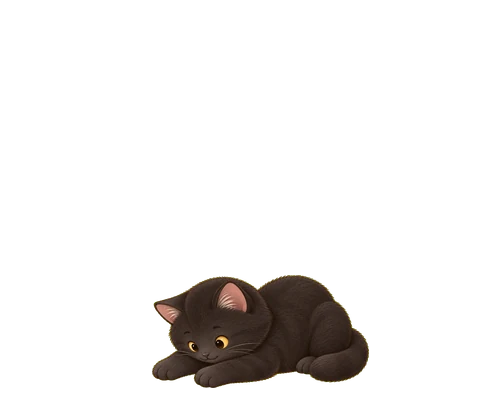
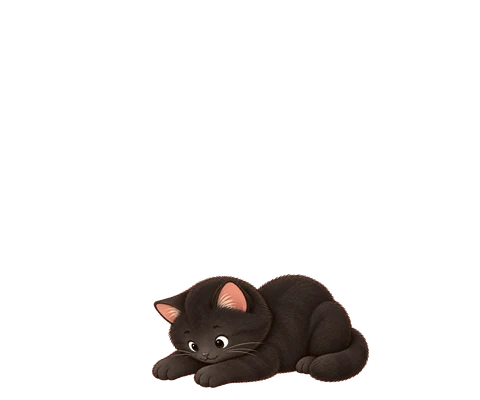
Add peer pose for all cats, use it for sakura-toro, update Pilpel's lie art
New "peer" pose (cat sitting beside and leaning toward something, head
tilted down) added to the pipeline regex, READY_POSES and POSE_LABEL --
all seven cats have art for it. sakura-toro switches from sit to peer and
its cat anchor is tuned (x: 73.8) so the cat leans in close against the
lantern's corner, matching the reference composition. Also brings in
updated art for Pilpel's lie pose.

Claude-Session: https://claude.ai/code/session_01Pkw8LBSwnZBu2yAEbnaNRH

diff --git a/index.html b/index.html
@@ -352,7 +352,7 @@
     kaiseki:  { room: 'shokudo', food: true, duration: 90, ja: '懐石', tr: 'kaiseki', en: 'formal multi-course set', price: 600, scale: 0.75 },
     'taiyaki-xl': { room: 'onsen', ja: '大きなたい焼き', tr: 'ookina taiyaki', en: 'big taiyaki', price: 280, pose: 'ride', poses: ['ride', 'half', 'soak'], cat: { x: 56.25, y: 65 }, offset: { rimon: { x: 0, y: 0.5, s: 1 }, pilpel: { x: 0, y: 0, s: 1.05 } } },
     stool:    { room: 'onsen', ja: '腰掛け', tr: 'koshikake', en: 'stool', price: 200, pose: 'sit', poses: ['sit', 'sleep'], cat: { x: 50, y: 68 }, poseOffset: { sleep: { x: 0, y: 2.8 } } },
-    'sakura-toro': { room: 'onsen', ja: '灯籠', tr: 'tōrō', en: 'sakura lantern', price: 260, pose: 'sit', cat: { x: 78, y: 87.5 }, inFront: true },
+    'sakura-toro': { room: 'onsen', ja: '灯籠', tr: 'tōrō', en: 'sakura lantern', price: 260, pose: 'peer', cat: { x: 73.8, y: 87.5 }, inFront: true },
     'onsen-clay': { room: 'onsen', xl: true, poses: ['half', 'soak'], water: { x: 50, y: 23.9, w: 92.6, steamDy: 10.6 }, ja: '土風呂', tr: 'tsuchi-buro', en: 'clay bath', price: 300, pose: 'half', scale: 2, cat: { x: 50, y: 62 }, poseOffset: { half: { x: -7.4, y: -28.1 }, soak: { x: -7.4, y: -28.1 } }, offset: { sheleg: { x: 0, y: -1.1, s: 0.95 } } },
     'onsen-hex': { room: 'onsen', xl: true, poses: ['half', 'soak'], water: { x: 50, y: 28.4, w: 93.0, steamDy: 10.6 }, poseOffset: { half: { x: 0, y: 1.8 } }, ja: '六角風呂', tr: 'rokkaku-buro', en: 'hexagonal bath', price: 380, pose: 'half', scale: 2, cat: { x: 50, y: 62 }, offset: { sheleg: { x: 0, y: 0, s: 0.95 } } },
     'onsen-hinoki': { room: 'onsen', xl: true, poses: ['half', 'soak'], water: { x: 50, y: 31.5, w: 80.5, steamDy: 10.6 }, poseOffset: { half: { x: 0, y: -15.8 }, soak: { x: 0, y: -21.1 } }, ja: '檜風呂', tr: 'hinoki-buro', en: 'hinoki bath', price: 520, pose: 'half', scale: 2, cat: { x: 50, y: 62 }, offset: { sheleg: { x: 0, y: 0, s: 0.95 } } },
@@ -367,9 +367,9 @@
     kazaguruma: { room: 'engawa', ja: '風車', tr: 'kazaguruma', en: 'pinwheel', price: 340, pose: 'sit', cat: { x: 72, y: 87.5 }, wheel: { x: 50.1, y: 47.5, w: 27.5 }, inFront: true },
     fan:      { room: 'engawa', ja: '団扇', tr: 'uchiwa', en: 'fan', price: 230, pose: 'sit', wobble: true, cat: { x: 76, y: 87.5 }, inFront: true },
   };
-  const POSE_LABEL = { sit: 'sitting', sleep: 'napping', lie: 'lying', head: 'peeking', ride: 'riding', face: 'looking out of', half: 'soaking in', soak: 'soaking' };
+  const POSE_LABEL = { sit: 'sitting', sleep: 'napping', lie: 'lying', head: 'peeking', ride: 'riding', face: 'looking out of', half: 'soaking in', soak: 'soaking', peer: 'peering' };
   // Poses that have art for every cat.
-  const READY_POSES = new Set(['sit', 'sleep', 'lie', 'half', 'soak', 'ride']);
+  const READY_POSES = new Set(['sit', 'sleep', 'lie', 'half', 'soak', 'ride', 'peer']);
 
   // ja: the name shown in Japanese. tr: romaji. en: the English meaning, shown on the cat's card.
   const CATS = {

diff --git a/tools/process_art.py b/tools/process_art.py
@@ -81,7 +81,7 @@ FRONT_CURVES = {
 FRONT_WALLS = {
 }
 
-POSE_RE = re.compile(r'^(?P<cat>[a-z]+)-(?P<pose>sit|sleep|lie|head|ride|face|half|soak)(?:-(?P<n>\d+))?$')
+POSE_RE = re.compile(r'^(?P<cat>[a-z]+)-(?P<pose>sit|sleep|lie|head|ride|face|half|soak|peer)(?:-(?P<n>\d+))?$')
 # Items where the backdrop seen through gaps (e.g. between a stool's legs) should be transparent too.
 CLEAR_HOLES = {'stool', 'mtchirashi', 'fan'}  # mtchirashi: the gap between the prawn's feelers; fan: the gap between the ribs where they meet the handle
 # Items made from another item's raw image, at their own size (e.g. the XL taiyaki the cat rides).
